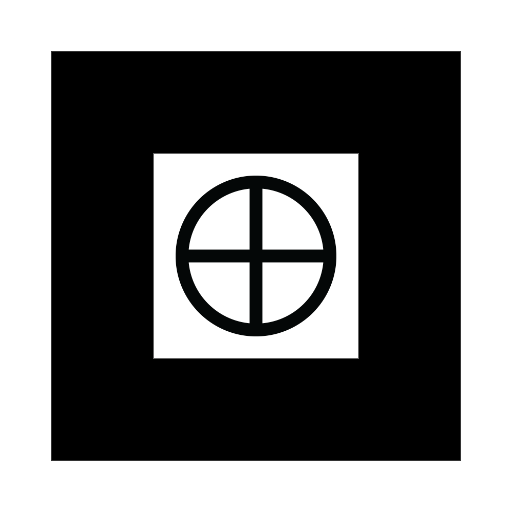
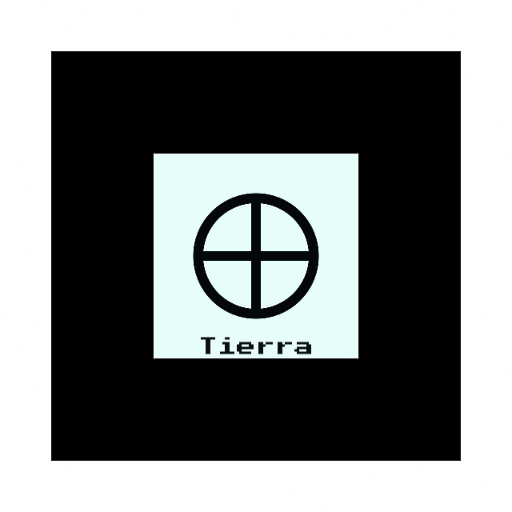
Ajustar modelo y tamaño de la Tierra

Changed region(s): [[0.3438, 0.3438, 0.6562, 0.7188]]

diff --git a/src/componentes/SolarSystemAR.jsx b/src/componentes/SolarSystemAR.jsx
@@ -133,7 +133,7 @@ function SolarSystemAR() {
 					<a-entity
 						id="tierra-container"
 						position="0 0.5 0"
-						scale="0.3 0.3 0.3"
+						scale="1.3334365892997302 1.3334365892997302 1.3334365892997302"
 						class="planeta"
 						visible="false"
 						rotation="23.5 0 0">
